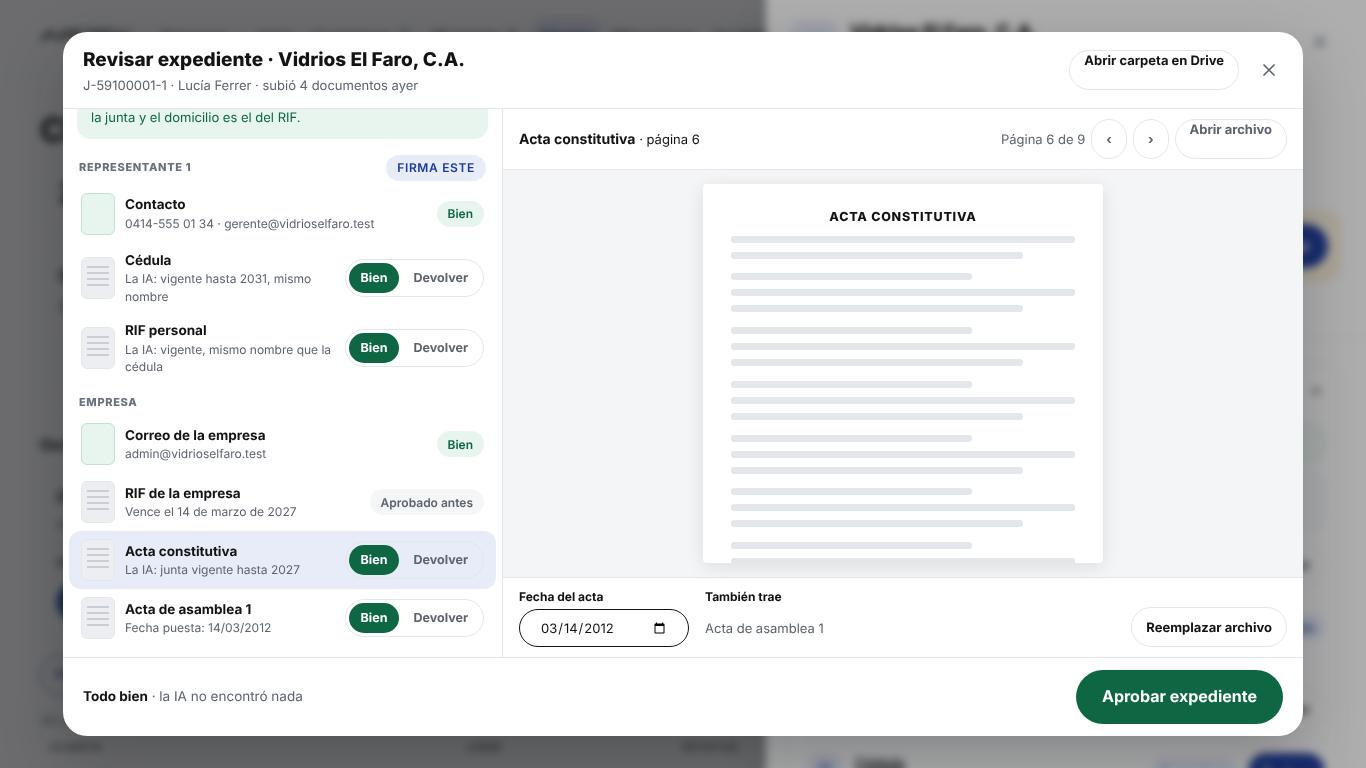
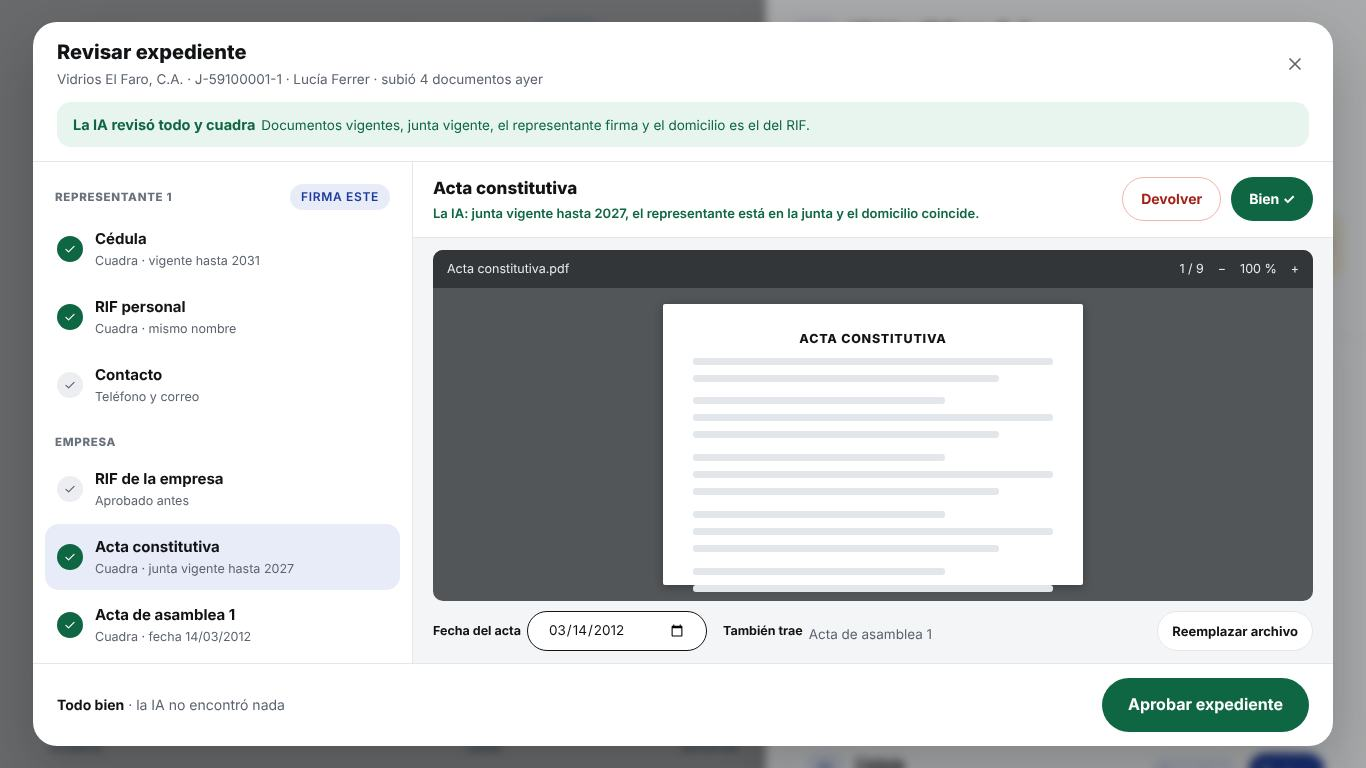
Revisión de documentos: propuesta v2 (más aire, IA automática, abogada decide en la revisión)
Claude-Session: https://claude.ai/code/session_01CcbJaaJjprsEj3C3vsW1dL

diff --git a/claude/maquetas/revision-nueva/montar-maqueta.js b/claude/maquetas/revision-nueva/montar-maqueta.js
@@ -1,109 +1,116 @@
-// Uso: servidor en la raíz (python3 -m http.server 8765) y desde esta carpeta: node montar-maqueta.js. Cambia OUT a una carpeta tuya.
-// Maqueta de la revisión nueva, montada sobre la app real del simulador (no es prueba). Datos inventados.
+// Maqueta v2 de la revisión nueva, montada sobre la app real del simulador. Datos inventados.
+// Uso: servidor en la raíz (python3 -m http.server 8765) y desde esta carpeta: node montar-maqueta.js /ruta/salida/
 const { chromium, H, PC, contexto, entrar } = require('../../../pruebas/simulador');
-const OUT = '/home/claude/gen/rn/';
+const OUT = process.argv[2] || './img-src/';
 const CSS = `
 .zz-ov{position:fixed;inset:0;z-index:400;display:grid;place-items:center}
-.zz-ov:before{content:"";position:absolute;inset:0;background:rgba(17,19,21,.34);backdrop-filter:blur(4px);-webkit-backdrop-filter:blur(4px)}
-.zz-rv{position:relative;width:1240px;height:704px;background:#fff;border-radius:24px;box-shadow:0 24px 60px rgba(17,19,21,.25);display:grid;grid-template-rows:auto 1fr auto;overflow:hidden}
-.zz-cab{display:flex;align-items:center;gap:14px;padding:14px 20px;border-bottom:1px solid var(--line)}
-.zz-cab h2{font-size:19px;font-weight:800;margin:0}.zz-cab small{display:block;font-size:13px;color:var(--text2);margin-top:2px}
-.zz-cab .der{margin-left:auto;display:flex;gap:8px;align-items:center}
-.zz-c{display:grid;grid-template-columns:440px 1fr;min-height:0}
-.zz-l{border-right:1px solid var(--line);overflow:auto;padding-bottom:10px}
-.zz-ia{margin:12px 14px 4px;border-radius:14px;padding:12px 14px;font-size:13px;line-height:1.45}
-.zz-ia b{display:block;font-size:13.5px;margin-bottom:2px}
-.zz-ia.ok{background:var(--verde-bg,#E7F5EE);color:var(--verde,#0F6642)}.zz-ia.mal{background:#FFF6E3;color:#754B00}
-.zz-ia .acc{display:flex;gap:8px;margin-top:8px}
-.zz-gr{display:flex;align-items:center;justify-content:space-between;padding:12px 16px 4px;font-size:11px;font-weight:800;letter-spacing:.06em;color:var(--text3,#69717C);text-transform:uppercase}
-.zz-d{display:grid;grid-template-columns:34px 1fr auto;gap:10px;align-items:center;padding:8px 12px;margin:0 6px;border-radius:12px}
+.zz-ov:before{content:"";position:absolute;inset:0;background:rgba(17,19,21,.36);backdrop-filter:blur(4px);-webkit-backdrop-filter:blur(4px)}
+.zz-rv{position:relative;width:1300px;height:724px;background:#fff;border-radius:24px;box-shadow:0 24px 60px rgba(17,19,21,.25);display:grid;grid-template-rows:auto auto 1fr auto;overflow:hidden}
+.zz-cab{display:flex;align-items:center;gap:14px;padding:16px 24px 12px}
+.zz-cab h2{font-size:20px;font-weight:800;margin:0}.zz-cab small{display:block;font-size:13.5px;color:var(--text2);margin-top:3px}
+.zz-cab .der{margin-left:auto;display:flex;gap:10px;align-items:center}
+.zz-ia{margin:0 24px 14px;border-radius:14px;padding:12px 16px;display:flex;align-items:center;gap:14px;font-size:13.5px}
+.zz-ia .tx{flex:1}.zz-ia b{font-size:14.5px;margin-right:6px}
+.zz-ia.ok{background:#E7F5EE;color:#0F6642}.zz-ia.mal{background:#FFF6E3;color:#754B00}.zz-ia.lee{background:#E8EEFF;color:#1F45C4}.zz-ia.no{background:#F5F6F7;color:var(--text2)}
+.zz-bar{width:180px;height:8px;border-radius:99px;background:rgba(31,69,196,.15);overflow:hidden;position:relative}
+.zz-bar i{position:absolute;inset:0;background:#1F45C4;border-radius:99px;transform-origin:left}
+.zz-c{display:grid;grid-template-columns:380px 1fr;min-height:0;border-top:1px solid var(--line)}
+.zz-l{border-right:1px solid var(--line);overflow:auto;padding:8px 12px 14px}
+.zz-gr{display:flex;align-items:center;justify-content:space-between;padding:14px 10px 6px;font-size:11.5px;font-weight:800;letter-spacing:.06em;color:var(--text3,#69717C);text-transform:uppercase}
+.zz-d{display:flex;align-items:center;gap:12px;padding:12px 12px;border-radius:14px;margin-bottom:2px}
 .zz-d.sel{background:#E8ECF9}
-.zz-d .mi{width:34px;height:42px;border-radius:6px;background:#ECEEF1;border:1px solid var(--line);position:relative;overflow:hidden}
-.zz-d .mi:after{content:"";position:absolute;left:5px;right:5px;top:8px;height:24px;background:repeating-linear-gradient(#C9CED6 0 2px,transparent 2px 6px)}
-.zz-d .mi.dato{background:#E7F5EE;border-color:#BFE3CF}.zz-d .mi.dato:after{display:none}
-.zz-d b{display:block;font-size:13.5px}.zz-d small{display:block;font-size:12px;color:var(--text2)}
-.zz-d small.zm{color:#754B00;font-weight:600}.zz-d small.zr{color:#A32117;font-weight:600}
-.zz-sw{display:flex;border:1.5px solid var(--line);border-radius:99px;padding:3px;gap:2px}
-.zz-sw span{height:30px;padding:0 12px;border-radius:99px;display:grid;place-items:center;font-size:12.5px;font-weight:700;color:var(--text2)}
-.zz-sw .b.on{background:#0F6642;color:#fff}.zz-sw .d.on{background:#A32117;color:#fff}
-.zz-dev{margin:2px 14px 8px 56px;border:1.5px solid #F0B4AE;background:#FFF8F7;border-radius:12px;padding:10px 12px;display:flex;flex-direction:column;gap:8px}
-.zz-dev .zmot{display:flex;flex-wrap:wrap;gap:6px}
-.zz-dev .zmot span{height:28px;padding:0 10px;border-radius:99px;border:1.5px solid var(--line);background:#fff;display:grid;place-items:center;font-size:12px;font-weight:600}
-.zz-dev .zmot span.on{border-color:#A32117;color:#A32117;background:#FCEDEB}
-.zz-dev .nt{min-height:36px;border:1.5px solid var(--line);border-radius:10px;background:#fff;font-size:12.5px;padding:8px 10px}
-.zz-v{background:#F4F5F7;display:grid;grid-template-rows:auto 1fr auto;min-height:0}
-.zz-vb{display:flex;align-items:center;gap:10px;padding:10px 16px;background:#fff;border-bottom:1px solid var(--line);font-size:13px}
-.zz-vb b{font-size:14px}.zz-vb .der{margin-left:auto;display:flex;gap:6px;align-items:center;color:var(--text2)}
-.zz-pg{margin:14px auto;width:400px;background:#fff;box-shadow:0 4px 18px rgba(17,19,21,.10);border-radius:4px;padding:24px 28px;position:relative;overflow:hidden}
+.zz-d .tx{flex:1;min-width:0}.zz-d b{display:block;font-size:15px}.zz-d small{display:block;font-size:12.5px;color:var(--text2);margin-top:2px}
+.zz-e{width:26px;height:26px;border-radius:50%;display:grid;place-items:center;flex:none;font-size:13px;font-weight:800}
+.zz-e.b{background:#0F6642;color:#fff}.zz-e.d{background:#A32117;color:#fff}.zz-e.a{background:#FBF1DC;color:#754B00;border:1.5px solid #E0A93B}.zz-e.n{border:2px solid #C9CED6}.zz-e.y{background:#ECEEF1;color:var(--text2)}
+.zz-v{display:flex;flex-direction:column;min-height:0;background:#F4F5F7}
+.zz-vh{display:flex;align-items:center;gap:14px;padding:14px 20px;background:#fff;border-bottom:1px solid var(--line)}
+.zz-vh h3{font-size:17px;font-weight:800;margin:0}.zz-vh small{display:block;font-size:13px;color:var(--text2);margin-top:3px}.zz-vh small.am{color:#754B00;font-weight:600}.zz-vh small.ve{color:#0F6642;font-weight:600}
+.zz-vh .der{margin-left:auto;display:flex;gap:10px}
+.zz-btnv{background:#0F6642 !important;border-color:#0F6642 !important;color:#fff !important}
+.zz-btnr{background:#fff !important;color:#A32117 !important;border:1.5px solid #F0B4AE !important}
+.zz-btnr.on{background:#A32117 !important;color:#fff !important;border-color:#A32117 !important}
+.zz-nota{margin:12px 20px 0;border-radius:12px;padding:10px 14px;font-size:13.5px;background:#FFF6E3;color:#754B00}
+.zz-nota.ok{background:#E7F5EE;color:#0F6642}
+.zz-pdf{margin:12px 20px 0;flex:1;border-radius:10px;overflow:hidden;display:grid;grid-template-rows:38px 1fr;min-height:0;background:#525659}
+.zz-pdf .tb{background:#323639;color:#E8EAED;display:flex;align-items:center;gap:14px;padding:0 14px;font-size:12.5px}
+.zz-pdf .tb .der{margin-left:auto;display:flex;gap:14px}
+.zz-pdf .pz{overflow:hidden;padding:16px 0;display:flex;justify-content:center}
+.zz-pg{width:420px;background:#fff;border-radius:2px;padding:26px 30px;box-shadow:0 2px 10px rgba(0,0,0,.3)}
 .zz-pg .t{font-size:12.5px;font-weight:800;text-align:center;letter-spacing:.06em;margin:0}
-.zz-pg .l{height:7px;border-radius:3px;background:#E3E6EA;margin-top:9px}.zz-pg .l.c{width:70%}.zz-pg .l.m{width:85%}
-.zz-pg .mk{position:absolute;left:20px;right:20px;border:2.5px solid #E0A93B;background:rgba(251,241,220,.5);border-radius:6px}
-.zz-pg .et{position:absolute;right:24px;background:#E0A93B;color:#fff;font-size:11px;font-weight:800;padding:3px 8px;border-radius:6px}
-.zz-dt{background:#fff;border-top:1px solid var(--line);padding:10px 16px;display:flex;gap:16px;align-items:flex-end}
-.zz-dt label{display:block;font-size:12px;font-weight:700;margin-bottom:4px}
-.zz-dt .campo{height:38px;width:170px;font-size:13px}
-.zz-pie{display:flex;align-items:center;gap:12px;padding:12px 20px;border-top:1px solid var(--line)}
-.zz-pie .zres{flex:1;font-size:13.5px;color:var(--text2)}.zz-pie .zres b{color:var(--text);font-size:13.5px}
-.zz-cab .mini,.zz-vb .mini{white-space:nowrap}
-.zz-peq{position:relative;width:600px;background:#fff;border-radius:24px;box-shadow:0 24px 60px rgba(17,19,21,.25);padding:24px 26px;display:flex;flex-direction:column;gap:12px}
-.zz-peq h2{font-size:21px;font-weight:800;margin:0}
+.zz-pg .l{height:7px;border-radius:3px;background:#E3E6EA;margin-top:10px}.zz-pg .l.c{width:70%}.zz-pg .l.m{width:85%}
+.zz-dt{display:flex;gap:16px;align-items:center;padding:10px 20px 12px}
+.zz-dt label{font-size:12.5px;font-weight:700;margin-right:6px}.zz-dt>div{display:flex;align-items:center}
+.zz-dt .campo{height:40px;width:180px;font-size:13.5px;background:#fff}
+.zz-dt .sub{font-size:13.5px;color:var(--text2);height:40px;display:flex;align-items:center}
+.zz-mot{margin:12px 20px 0;background:#fff;border:1.5px solid #F0B4AE;border-radius:14px;padding:14px 16px;display:flex;flex-direction:column;gap:10px}
+.zz-mot p{margin:0;font-size:14px;font-weight:800}
+.zz-mot .ops{display:flex;flex-wrap:wrap;gap:8px}
+.zz-mot .ops span{height:34px;padding:0 14px;border-radius:99px;border:1.5px solid var(--line);display:grid;place-items:center;font-size:13px;font-weight:600}
+.zz-mot .ops span.on{border-color:#A32117;color:#A32117;background:#FCEDEB}
+.zz-mot .nt{min-height:42px;border:1.5px solid var(--line);border-radius:10px;font-size:13.5px;padding:10px 12px}
+.zz-pie{display:flex;align-items:center;gap:14px;padding:14px 24px;border-top:1px solid var(--line)}
+.zz-pie .zres{flex:1;font-size:14px;color:var(--text2)}.zz-pie .zres b{color:var(--text);font-size:14px}
+.zz-peq{position:relative;width:620px;background:#fff;border-radius:24px;box-shadow:0 24px 60px rgba(17,19,21,.25);padding:28px;display:flex;flex-direction:column;gap:14px}
+.zz-peq h2{font-size:22px;font-weight:800;margin:0}
 .zz-peq .dat{border:1px solid var(--line);border-radius:14px}
-.zz-peq .dat div{display:grid;grid-template-columns:120px 1fr;gap:10px;padding:10px 14px;border-top:1px solid var(--line);font-size:13.5px}
+.zz-peq .dat div{display:grid;grid-template-columns:120px 1fr;gap:10px;padding:12px 16px;border-top:1px solid var(--line);font-size:14px}
 .zz-peq .dat div:first-child{border-top:0}.zz-peq .dat span{color:var(--text2)}
-.zz-peq .msj{border:1.5px solid var(--line);border-radius:12px;padding:10px 12px;font-size:13px;line-height:1.5}
+.zz-peq .msj{border:1.5px solid var(--line);border-radius:12px;padding:12px 14px;font-size:13.5px;line-height:1.5}
 .zz-peq .acc{display:flex;gap:10px;justify-content:flex-end}
 .zz-peq.ok{background:#EAF6EF;align-items:center;text-align:center}.zz-peq.am{background:#FFF6E3;align-items:center;text-align:center}
-.zz-peq .ic{width:68px;height:68px;border-radius:50%;background:#fff;display:grid;place-items:center}
-.zz-btnv{background:#0F6642 !important;border-color:#0F6642 !important}
+.zz-peq .ic{width:72px;height:72px;border-radius:50%;background:#fff;display:grid;place-items:center}
 .zz-wa{background:#128C4B !important;border-color:#128C4B !important}
-.zz-sub{font-size:13px;color:var(--text2)}
+.zz-pt{display:inline-flex;gap:4px;margin-left:6px;vertical-align:middle}.zz-pt i{width:6px;height:6px;border-radius:50%;background:currentColor;animation:zzp 1s infinite}.zz-pt i:nth-child(2){animation-delay:.15s}.zz-pt i:nth-child(3){animation-delay:.3s}
+@keyframes zzp{0%,100%{opacity:.25}40%{opacity:1}}
 `;
-const OK = '<svg class="i" viewBox="0 0 24 24"><path d="M5 12.5l4.5 4.5L19 7.5"/></svg>';
-const sw = (e, b = 'Bien', d = 'Devolver') => '<div class="zz-sw"><span class="b' + (e === 'b' ? ' on' : '') + '">' + b + '</span><span class="d' + (e === 'd' ? ' on' : '') + '">' + d + '</span></div>';
-const d = (t, s, e, o = {}) => '<div class="zz-d' + (o.sel ? ' sel' : '') + '"><span class="mi' + (o.dato ? ' dato' : '') + '"></span><span><b>' + t + '</b><small class="' + (o.c || '') + '">' + s + '</small></span>' + (o.dato ? '<span class="chip verde">Bien</span>' : o.ya ? '<span class="chip">Aprobado antes</span>' : sw(e, o.b, o.dd)) + '</div>';
-const pg = (t, mk) => '<div class="zz-pg"><p class="t">' + t + '</p>' + Array.from({ length: 24 }, (_, i) => '<div class="l' + (i % 3 === 2 ? ' c' : i % 3 === 1 ? ' m' : '') + '"></div>').join('') + (mk ? '<div class="mk" style="top:' + mk[0] + 'px;height:' + mk[1] + 'px"></div><span class="et" style="top:' + (mk[0] - 22) + 'px">' + mk[2] + '</span>' : '') + '</div>';
-const lista = (est) => '<div class="zz-gr">Representante 1<span class="chip azul">Firma este</span></div>' +
-  d('Contacto', '0414-555 01 34 · gerente@vidrioselfaro.test', '', { dato: true }) +
-  d('Cédula', 'La IA: vigente hasta 2031, mismo nombre', est.ced || 'b') + d('RIF personal', 'La IA: vigente, mismo nombre que la cédula', est.rifp || 'b') +
-  '<div class="zz-gr">Empresa</div>' + d('Correo de la empresa', 'admin@vidrioselfaro.test', '', { dato: true }) + d('RIF de la empresa', 'Vence el 14 de marzo de 2027', '', { ya: true }) +
-  d('Acta constitutiva', est.actaT || 'La IA: junta vencida, página 6', est.acta || '', { sel: est.sel === 'acta', c: est.actaC === undefined ? 'zm' : est.actaC }) + (est.dev || '') +
-  d('Acta de asamblea 1', est.asaT || 'Mismo archivo que el acta constitutiva · falta la fecha', est.asa || '', { sel: est.sel === 'asa', c: est.asaC === undefined ? 'zm' : est.asaC });
-const IA_MAL = '<div class="zz-ia mal"><b>La IA encontró 1 cosa</b>La junta directiva venció el 14/03/2017 (acta constitutiva, página 6). Lo demás cuadra.<div class="acc"><button class="mini">Ver en el acta</button><button class="mini">Aprobar igual (excepción)</button></div></div>';
-const IA_OK = '<div class="zz-ia ok"><b>La IA revisó todo: cuadra</b>Documentos vigentes, junta vigente, el representante está en la junta y el domicilio es el del RIF.</div>';
-const rv = (o) => '<div class="zz-ov"><div class="zz-rv"><div class="zz-cab"><div><h2>' + (o.tit || 'Revisar expediente') + ' · Vidrios El Faro, C.A.</h2><small>J-59100001-1 · Lucía Ferrer · ' + (o.sub || 'subió 4 documentos ayer') + '</small></div><div class="der"><a class="mini" href="#">Abrir carpeta en Drive</a><button class="cerrar" aria-label="Cerrar"><svg class="i" viewBox="0 0 24 24"><path d="M6 6l12 12M18 6L6 18"/></svg></button></div></div>' +
-  '<div class="zz-c"><div class="zz-l">' + o.ia + o.lista + '</div><div class="zz-v"><div class="zz-vb"><span><b>' + o.vt + '</b> · ' + o.vs + '</span><span class="der">Página ' + (o.pag || '6 de 9') + '<button class="mini">‹</button><button class="mini">›</button><a class="mini" href="#">Abrir archivo</a></span></div>' + o.doc +
-  '<div class="zz-dt">' + (o.dt || '<div><label>Fecha del acta</label><input class="campo" type="date" value="2012-03-14"></div><div><label>También trae</label><div class="zz-sub" style="height:38px;display:flex;align-items:center">Acta de asamblea 1</div></div><button class="mini" style="margin-left:auto">Reemplazar archivo</button>') + '</div></div></div>' +
+const OK = '<svg class="i" viewBox="0 0 24 24" style="width:14px;height:14px"><path d="M5 12.5l4.5 4.5L19 7.5"/></svg>';
+const E = { b: '<span class="zz-e b">' + OK + '</span>', d: '<span class="zz-e d">!</span>', a: '<span class="zz-e a">!</span>', n: '<span class="zz-e n"></span>', y: '<span class="zz-e y">' + OK + '</span>' };
+const d = (t, s, e, sel) => '<div class="zz-d' + (sel ? ' sel' : '') + '">' + E[e] + '<span class="tx"><b>' + t + '</b><small>' + s + '</small></span></div>';
+const lista = (o) => '<div class="zz-gr">Representante 1<span class="chip azul">Firma este</span></div>' + d('Cédula', o.ced || 'Cuadra · vigente hasta 2031', o.cedE || 'b', o.sel === 'ced') + d('RIF personal', o.rifp || 'Cuadra · mismo nombre', o.rifpE || 'b') + d('Contacto', 'Teléfono y correo', 'y') +
+  '<div class="zz-gr">Empresa</div>' + d('RIF de la empresa', 'Aprobado antes', 'y') + d('Acta constitutiva', o.acta || 'La IA: junta vencida', o.actaE || 'a', o.sel === 'acta') + d('Acta de asamblea 1', o.asa || 'Falta la fecha del acta', o.asaE || 'n', o.sel === 'asa') + d('Correo de la empresa', 'admin@vidrioselfaro.test', 'y');
+const pdf = (t, pag) => '<div class="zz-pdf"><div class="tb"><span>' + t + '.pdf</span><span class="der"><span>' + pag + '</span><span>−</span><span>100 %</span><span>+</span></span></div><div class="pz"><div class="zz-pg"><p class="t">' + t.toUpperCase() + '</p>' + Array.from({ length: 26 }, (_, i) => '<div class="l' + (i % 3 === 2 ? ' c' : i % 3 === 1 ? ' m' : '') + '"></div>').join('') + '</div></div></div>';
+const IA = { mal: '<div class="zz-ia mal"><span class="tx"><b>La IA encontró 1 cosa</b>La junta directiva venció el 14/03/2017 (acta constitutiva, página 6). Lo demás cuadra.</span><button class="mini">Ver en el acta</button></div>',
+  ok: '<div class="zz-ia ok"><span class="tx"><b>La IA revisó todo y cuadra</b>Documentos vigentes, junta vigente, el representante firma y el domicilio es el del RIF.</span></div>',
+  lee: '<div class="zz-ia lee"><span class="tx"><b>La IA está leyendo<span class="zz-pt"><i></i><i></i><i></i></span></b>3 de 4 documentos. Puedes empezar a mirar; lo que encuentre aparece aquí.</span><span class="zz-bar"><i style="transform:scaleX(.72)"></i></span></div>',
+  no: '<div class="zz-ia no"><span class="tx"><b>La IA no ha leído estos documentos</b>Puedes revisar sin ella o pedirle que los lea (unos US$ 0,16).</span><button class="btn btn-chico">Leer con IA</button></div>' };
+const dt = '<div class="zz-dt"><div><label>Fecha del acta</label><input class="campo" type="date" value="2012-03-14"></div><div><label>También trae</label><span class="sub" style="height:auto">Acta de asamblea 1</span></div><button class="mini" style="margin-left:auto">Reemplazar archivo</button></div>';
+const rv = (o) => '<div class="zz-ov"><div class="zz-rv"><div class="zz-cab"><div><h2>' + (o.tit || 'Revisar expediente') + '</h2><small>Vidrios El Faro, C.A. · J-59100001-1 · Lucía Ferrer · ' + (o.sub || 'subió 4 documentos ayer') + '</small></div><div class="der"><button class="cerrar" aria-label="Cerrar"><svg class="i" viewBox="0 0 24 24"><path d="M6 6l12 12M18 6L6 18"/></svg></button></div></div>' + o.ia +
+  '<div class="zz-c"><div class="zz-l">' + o.lista + '</div><div class="zz-v"><div class="zz-vh"><div><h3>' + o.vt + '</h3><small>' + o.vs + '</small></div><div class="der">' + o.dec + '</div></div>' + (o.nota || '<div></div>') + (o.pdf) + (o.dt === undefined ? dt : o.dt) + '</div></div>' +
   '<div class="zz-pie"><span class="zres">' + o.res + '</span>' + o.btn + '</div></div></div>';
+const DEC = (s) => '<button class="btn btn-chico zz-btnr' + (s === 'd' ? ' on' : '') + '">Devolver</button><button class="btn btn-chico ' + (s === 'b' ? 'zz-btnv' : 'btn-2') + '">' + (s === 'b' ? 'Bien ✓' : 'Bien') + '</button>';
 (async () => {
+  require('fs').mkdirSync(OUT, { recursive: true });
   const nav = await chromium.launch();
-  const tomar = async (p, n, full) => { await p.waitForTimeout(450); await p.screenshot({ path: OUT + n + '.png', fullPage: !!full }); console.log('ok', n); };
+  const tomar = async (p, n) => { await p.waitForTimeout(450); await p.screenshot({ path: OUT + n + '.png' }); console.log('ok', n); };
   const { ctx, mundo } = await contexto(nav, PC);
   const p = await entrar(ctx, 'marcos', '482913');
   await p.goto(H + 'clientes.html?c=1001&t=documentos'); await p.waitForSelector('#revisarTodo', { timeout: 15000 }); await p.waitForTimeout(800);
   await p.addStyleTag({ content: CSS });
-  // Ficha nueva: un solo llamado a revisar
-  await p.evaluate(() => {
-    const b = document.querySelector('#paso'); if(b){ b.className = 'paso ambar'; const t = b.querySelector('b, strong') || b.firstElementChild; b.innerHTML = '<div style="flex:1"><b>4 documentos por revisar</b><small style="display:block">La IA ya los leyó: 3 cuadran y 1 tiene algo que mirar</small></div><button class="btn btn-chico">Revisar</button>'; b.style.display = 'flex'; b.style.alignItems = 'center'; b.style.gap = '12px'; }
+  const ficha = async (titulo, sub, extra) => p.evaluate(([t, s, x]) => {
+    const b = document.querySelector('#paso'); if(b){ b.innerHTML = '<div style="flex:1"><b>' + t + '</b><small style="display:block">' + s + '</small>' + (x || '') + '</div><button class="btn btn-chico">Revisar</button>'; b.style.display = 'flex'; b.style.alignItems = 'center'; b.style.gap = '12px'; }
     const l = document.querySelector('#tab-documentos .rp-linea'); if(l){ const box = l.parentElement && l.parentElement.id !== 'tab-documentos' && !l.parentElement.classList.contains('doc-sec-c') ? l.parentElement : l; box.remove(); }
     const a = document.querySelector('#revisarTodo'); if(a) a.closest('.acc').remove();
     const ia = document.querySelector('.ia-bloque'); if(ia) ia.remove();
-  });
+  }, [titulo, sub, extra]);
+  await ficha('4 documentos por revisar', 'La IA está leyendo: 3 de 4', '<span class="zz-bar" style="display:block;margin-top:8px;width:220px;background:rgba(117,75,0,.15)"><i style="transform:scaleX(.72);background:#C98A12"></i></span>');
+  await tomar(p, '01a-ficha-ia-leyendo');
+  await ficha('4 documentos por revisar', 'La IA ya los leyó: 3 cuadran y 1 tiene algo que mirar');
   await tomar(p, '01-ficha');
-  await p.setViewportSize({ width: 1366, height: 1900 }); await tomar(p, '01b-ficha-larga'); await p.setViewportSize({ width: 1366, height: 768 });
-  const poner = async (html) => { await p.evaluate((h) => { document.querySelectorAll('.zz-ov').forEach((x) => x.remove()); document.body.insertAdjacentHTML('beforeend', h); const l = document.querySelector('.zz-l'); const sel = document.querySelector('.zz-d.sel'); if(l && sel) l.scrollTop = Math.max(0, sel.offsetTop - 150); }, html); };
-  const DOC = pg('ACTA CONSTITUTIVA', [262, 64, 'Junta: 5 años desde 14/03/2012']);
-  await poner(rv({ ia: IA_MAL, lista: lista({ sel: 'acta' }), vt: 'Acta constitutiva', vs: 'la IA marcó la página 6', doc: DOC, res: '<b>3 bien</b> · faltan 2 por decidir', btn: '<button class="btn" disabled>Aprobar expediente</button>' }));
+  const poner = async (html) => { await p.evaluate((h) => { document.querySelectorAll('.zz-ov').forEach((x) => x.remove()); if(h) document.body.insertAdjacentHTML('beforeend', h); }, html); };
+  await poner(rv({ ia: IA.mal, lista: lista({ sel: 'acta' }), vt: 'Acta constitutiva', vs: '<small class="am">La IA: la junta se nombró el 14/03/2012 por 5 años y venció el 14/03/2017. Abre en la página 6.</small>', dec: DEC(''), pdf: pdf('Acta constitutiva', '6 / 9'), res: '<b>3 bien</b> · faltan 2 por decidir', btn: '<button class="btn" disabled>Aprobar expediente</button>' }));
   await tomar(p, '02-revision');
-  const DEV = '<div class="zz-dev"><div class="zmot"><span>Está vencido</span><span>Ilegible</span><span>No es de esta empresa</span><span>Falta firma o sello</span><span class="on">Falta un acta</span><span>Otro</span></div><div class="nt">Falta el acta de asamblea de ratificación o cambio de junta directiva</div></div>';
-  await poner(rv({ ia: IA_MAL, lista: lista({ sel: 'acta', acta: 'd', actaT: 'Se devuelve: falta acta de ratificación', actaC: 'zr', dev: DEV, asa: 'b', asaT: 'Fecha puesta: 14/03/2012', asaC: '' }), vt: 'Acta constitutiva', vs: 'la IA marcó la página 6', doc: DOC, res: '<b>4 bien</b> · <b style="color:#A32117">1 se devuelve</b>', btn: '<button class="btn">Terminar y avisar a Lucía</button>' }));
+  await poner(rv({ ia: IA.mal, lista: lista({ sel: 'acta', acta: 'Se devuelve: falta un acta', actaE: 'd' }), vt: 'Acta constitutiva', vs: 'Mismo archivo que el acta de asamblea 1 · página 6', dec: DEC('d'), nota: '<div class="zz-mot"><p>¿Por qué lo devuelves?</p><div class="ops"><span>Está vencido</span><span>Ilegible o incompleto</span><span>No es de esta empresa</span><span>Falta firma o sello</span><span class="on">Falta un acta</span><span>Otro</span></div><div class="nt">Falta el acta de asamblea de ratificación o cambio de junta directiva</div></div>', pdf: pdf('Acta constitutiva', '6 / 9'), dt: '', res: '<b>3 bien</b> · <b style="color:#A32117">1 se devuelve</b> · falta 1', btn: '<button class="btn" disabled>Terminar y avisar a Lucía</button>' }));
   await tomar(p, '03-devolver');
-  await poner('<div class="zz-ov"><div class="zz-peq"><h2>Avisar a Lucía</h2><div class="dat"><div><span>Se aprueban</span><b>Cédula, RIF personal y Acta de asamblea 1</b></div><div><span>Se devuelve</span><b>Acta constitutiva: falta el acta de ratificación de la junta</b></div><div><span>Queda en</span><b>Documentos pendientes</b></div></div><p style="font-size:13px;font-weight:700;margin:0">Mensaje (puedes cambiarlo)</p><div class="msj">Hola Lucía. De Vidrios El Faro, C.A. falta el acta de asamblea de ratificación o cambio de junta directiva (la junta venció en 2017). Cuando la tengas, súbela a la app. Gracias.</div><div class="acc"><button class="btn btn-2">Solo guardar</button><button class="btn zz-wa">Guardar y enviar por WhatsApp</button></div></div></div>');
+  await poner('<div class="zz-ov"><div class="zz-peq"><h2>Avisar a Lucía</h2><div class="dat"><div><span>Se aprueban</span><b>Cédula, RIF personal y Acta de asamblea 1</b></div><div><span>Se devuelve</span><b>Acta constitutiva: falta el acta de ratificación de la junta</b></div><div><span>Queda en</span><b>Documentos pendientes</b></div></div><p style="font-size:13.5px;font-weight:700;margin:0">Mensaje (puedes cambiarlo)</p><div class="msj">Hola Lucía. De Vidrios El Faro, C.A. falta el acta de asamblea de ratificación o cambio de junta directiva (la junta venció en 2017). Cuando la tengas, súbela a la app. Gracias.</div><div class="acc"><button class="btn btn-2">Solo guardar</button><button class="btn zz-wa">Guardar y enviar por WhatsApp</button></div></div></div>');
   await tomar(p, '04-avisar');
-  await poner(rv({ ia: IA_OK, lista: lista({ sel: 'acta', acta: 'b', actaT: 'La IA: junta vigente hasta 2027', actaC: '', asa: 'b', asaT: 'Fecha puesta: 14/03/2012', asaC: '' }), vt: 'Acta constitutiva', vs: 'página 6', doc: pg('ACTA CONSTITUTIVA'), res: '<b>Todo bien</b> · la IA no encontró nada', btn: '<button class="btn zz-btnv">Aprobar expediente</button>' }));
+  await poner(rv({ ia: IA.ok, lista: lista({ sel: 'acta', acta: 'Cuadra · junta vigente hasta 2027', actaE: 'b', asa: 'Cuadra · fecha 14/03/2012', asaE: 'b' }), vt: 'Acta constitutiva', vs: '<small class="ve">La IA: junta vigente hasta 2027, el representante está en la junta y el domicilio coincide.</small>', dec: DEC('b'), pdf: pdf('Acta constitutiva', '1 / 9'), res: '<b>Todo bien</b> · la IA no encontró nada', btn: '<button class="btn zz-btnv">Aprobar expediente</button>' }));
   await tomar(p, '05-todo-bien');
-  await poner('<div class="zz-ov"><div class="zz-peq ok"><span class="ic" style="color:#0F6642">' + OK.replace('class="i"', 'class="i" style="width:30px;height:30px"') + '</span><h2 style="color:#0F6642">Expediente aprobado</h2><p class="zz-sub" style="font-size:14px;margin:0">Legal queda aprobado y el cliente pasa a Documentos recibidos. A la abogada le aparece para elaborar el contrato.</p><div class="acc" style="justify-content:center;width:100%"><button class="btn btn-2">Avisar a Lucía</button><button class="btn">Siguiente cliente</button></div></div></div>');
+  await poner('<div class="zz-ov"><div class="zz-peq ok"><span class="ic" style="color:#0F6642">' + OK.replace('width:14px;height:14px', 'width:30px;height:30px') + '</span><h2 style="color:#0F6642">Expediente aprobado</h2><p style="font-size:14.5px;color:var(--text2);margin:0">Legal queda aprobado y el cliente pasa a Documentos recibidos. A la abogada le aparece para elaborar el contrato.</p><div class="acc" style="justify-content:center;width:100%"><button class="btn btn-2">Avisar a Lucía</button><button class="btn">Siguiente cliente</button></div></div></div>');
   await tomar(p, '06-aprobado');
-  await poner('');
+  await poner(rv({ ia: IA.lee, lista: lista({ sel: 'ced', acta: 'Leyendo…', actaE: 'n', asa: 'Leyendo…', ced: 'Cuadra · vigente hasta 2031' }), vt: 'Cédula', vs: '<small class="ve">La IA: vigente hasta 2031 y el nombre coincide con el RIF personal.</small>', dec: DEC(''), pdf: pdf('Cedula', '1 / 1'), dt: '', res: 'Puedes decidir ya · la IA completa lo que falta', btn: '<button class="btn" disabled>Aprobar expediente</button>' }));
+  await tomar(p, '07-ia-leyendo');
+  await poner(rv({ ia: IA.no, lista: lista({ sel: 'ced', ced: 'Sin leer', cedE: 'n', rifp: 'Sin leer', rifpE: 'n', acta: 'Sin leer', actaE: 'n', asa: 'Sin leer' }), vt: 'Cédula', vs: 'Representante 1 · subida ayer por Lucía', dec: DEC(''), pdf: pdf('Cedula', '1 / 1'), dt: '', res: 'Faltan 4 por decidir', btn: '<button class="btn" disabled>Aprobar expediente</button>' }));
+  await tomar(p, '08-sin-ia');
   await ctx.close();
   // Abogada
   const c2 = await contexto(nav, PC, mundo);
@@ -112,10 +119,17 @@ const rv = (o) => '<div class="zz-ov"><div class="zz-rv"><div class="zz-cab"><di
   const l = await entrar(c2.ctx, 'paula', '615243');
   await l.goto(H + 'clientes.html?c=' + cli[0].id + '&t=documentos'); await l.waitForSelector('#hojaFicha .lp', { timeout: 15000 }).catch(() => {}); await l.waitForTimeout(800);
   await l.addStyleTag({ content: CSS });
+  await l.evaluate(() => { const lp = document.querySelector('#hojaFicha .lp'); if(!lp) return; const bs = lp.querySelectorAll('button'); const prim = Array.from(bs).find((b) => /Empecé/.test(b.textContent)); const pr = lp.querySelector('[data-problema]');
+    if(prim){ const box = prim.parentElement; box.innerHTML = '<button class="btn" style="flex:1">Ver documentos y empezar</button>'; }
+    const n = lp.querySelector('p, .nota-chica'); if(n) n.textContent = 'Primero miras los documentos; ahí mismo tocas "Empecé el contrato" o "Hay un problema".'; });
   await l.screenshot({ path: OUT + '10-abogada-ficha.png' }); console.log('ok 10');
-  const DEVA = '<div class="zz-dev"><div class="zmot"><span>Está vencido</span><span>Ilegible</span><span class="on">Datos no coinciden</span><span>Falta un acta</span><span>Otro</span></div><div class="nt">El objeto de la empresa no incluye telecomunicaciones</div></div>';
-  const listaA = lista({ sel: 'acta', ced: 'b', rifp: 'b', acta: 'd', actaT: 'Tiene un problema', actaC: 'zr', dev: DEVA, asa: 'b', asaT: 'Aprobada', asaC: '' }).replace(/>Bien<\/span><span class="d/g, '>Bien</span><span class="d').replace(/>Devolver</g, '>Problema<').replace(/La IA: [^<]*/g, 'Aprobado');
-  await l.evaluate((h) => document.body.insertAdjacentHTML('beforeend', h), rv({ tit: 'Hay un problema', sub: 'aprobado por Marcos el 12 nov', ia: '<div class="zz-ia ok"><b>Aprobado por Marcos el 12 nov</b>Marca solo lo que te impide hacer el contrato.</div>', lista: listaA + '<div class="zz-gr">¿Falta algo que no está?</div><div class="zz-d"><span class="mi" style="border:2px dashed #E0A93B;background:#FFFBF2"></span><span><b>Pedir otro documento</b><small>Elige cuál de la lista</small></span><button class="mini">Agregar</button></div>', vt: 'Acta constitutiva', vs: 'página 2', pag: '2 de 9', doc: pg('ACTA CONSTITUTIVA', [120, 70, 'Objeto de la empresa']), dt: '<span class="zz-sub">Solo lectura: lo aprobó Marcos.</span>', res: '<b>1 con problema</b> · el contrato se detiene', btn: '<button class="btn">Enviar a Marcos</button>' }));
-  await l.evaluate(() => { const x = document.querySelector('.zz-l'); const sel = document.querySelector('.zz-d.sel'); if(x && sel) x.scrollTop = Math.max(0, sel.offsetTop - 150); }); await l.waitForTimeout(400); await l.screenshot({ path: OUT + '11-abogada-problema.png' }); console.log('ok 11');
+  const listaA = (o) => lista(Object.assign({ ced: 'Aprobado por Marcos', cedE: 'b', rifp: 'Aprobado por Marcos', rifpE: 'b', acta: 'Aprobado por Marcos', actaE: 'b', asa: 'Aprobado por Marcos', asaE: 'b' }, o));
+  const decA = (s) => '<button class="btn btn-chico zz-btnr' + (s === 'p' ? ' on' : '') + '">Tiene un problema</button>';
+  const rvA = (o) => rv(Object.assign({ tit: 'Documentos para el contrato', sub: 'aprobado por Marcos el 12 nov', ia: '<div class="zz-ia ok"><span class="tx"><b>Expediente aprobado por Marcos</b>Míralos y empieza el contrato. Si algo te impide hacerlo, márcalo en ese documento.</span></div>', dt: '' }, o));
+  const pon = async (h) => { await l.evaluate((x) => { document.querySelectorAll('.zz-ov').forEach((y) => y.remove()); document.body.insertAdjacentHTML('beforeend', x); }, h); await l.waitForTimeout(400); };
+  await pon(rvA({ lista: listaA({ sel: 'acta' }), vt: 'Acta constitutiva', vs: 'Solo lectura · 9 páginas', dec: decA(''), pdf: pdf('Acta constitutiva', '2 / 9'), res: 'Todo aprobado', btn: '<button class="btn btn-2">Hay un problema</button><button class="btn">Empecé el contrato</button>' }));
+  await l.screenshot({ path: OUT + '11-abogada-documentos.png' }); console.log('ok 11');
+  await pon(rvA({ lista: listaA({ sel: 'acta', acta: 'Tiene un problema', actaE: 'd' }), vt: 'Acta constitutiva', vs: 'Solo lectura · página 2', dec: decA('p'), nota: '<div class="zz-mot"><p>¿Qué problema tiene?</p><div class="ops"><span>Está vencido</span><span>Ilegible</span><span class="on">Datos no coinciden</span><span>Falta un acta</span><span>Otro</span></div><div class="nt">El objeto de la empresa no incluye telecomunicaciones</div></div>', pdf: pdf('Acta constitutiva', '2 / 9'), res: '<b style="color:#A32117">1 con problema</b> · el contrato se detiene', btn: '<button class="btn">Enviar a Marcos</button>' }));
+  await l.screenshot({ path: OUT + '12-abogada-problema.png' }); console.log('ok 12');
   await nav.close();
 })();
